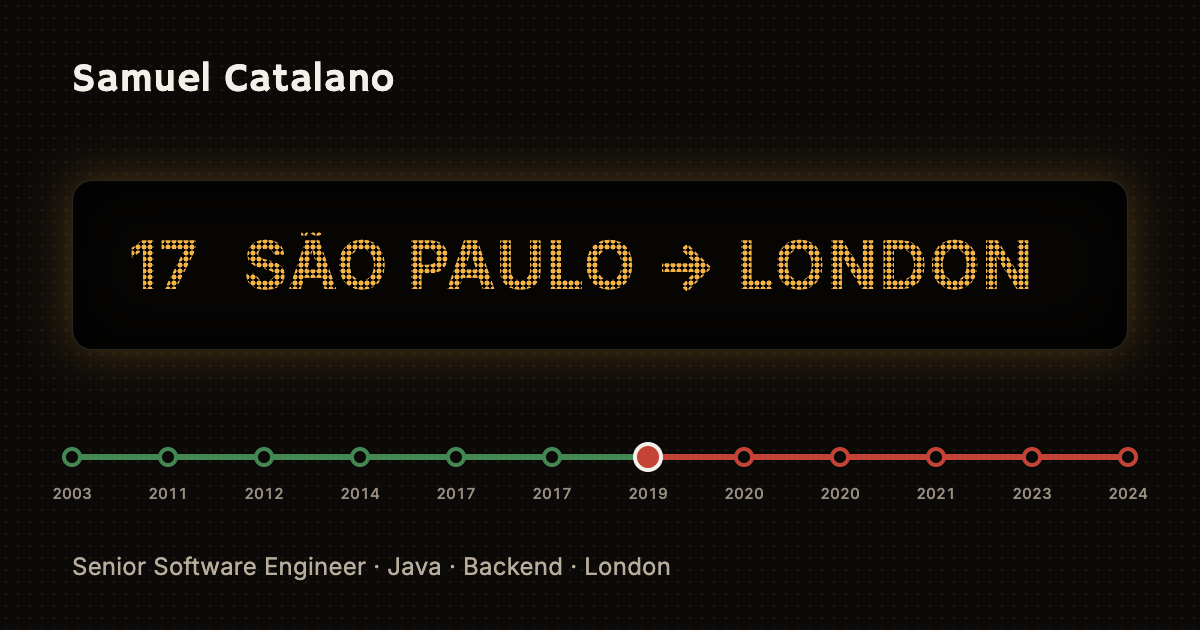
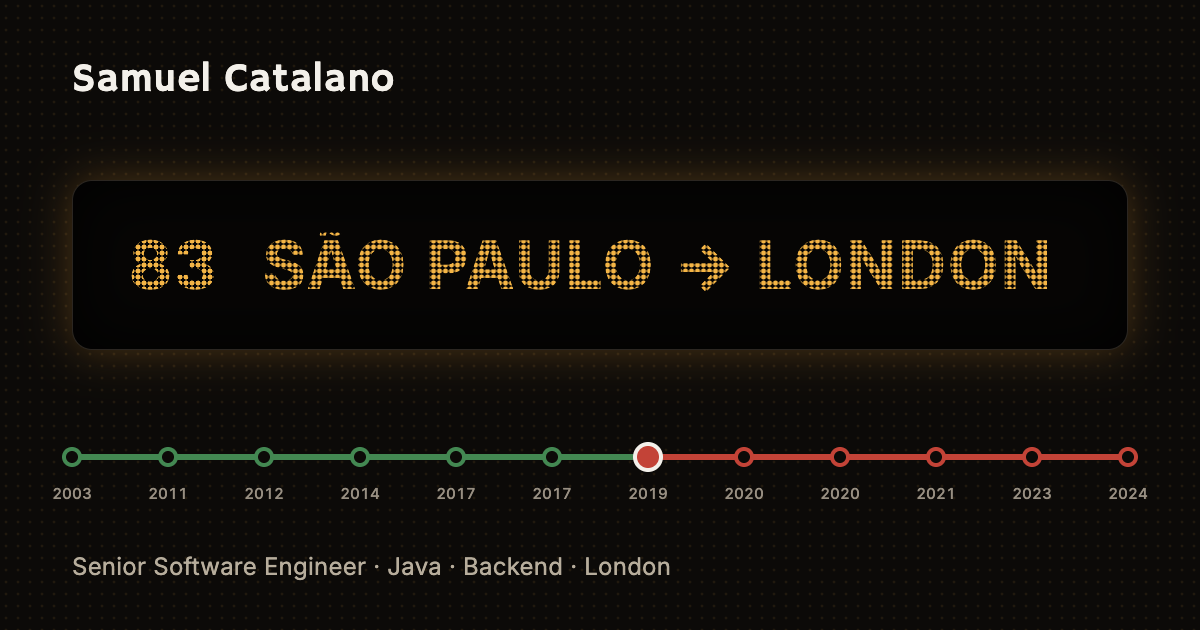
feat(blind): route number is 83 (birth year) on the intro, header and social preview

Changed region(s): [[0.0925, 0.3619, 0.8942, 0.4825]]

diff --git a/index.html b/index.html
@@ -142,7 +142,7 @@
   <section id="intro" role="dialog" aria-labelledby="intro-title" hidden>
     <div class="intro-card">
       <div class="blind" aria-hidden="true">
-        <b class="route">17</b>
+        <b class="route">83</b>
         <div class="dest"><span class="on" data-i18n="intro.d1"></span><span data-i18n="intro.d2"></span><span data-i18n="intro.d3"></span><span class="stop" data-i18n="intro.stop"></span></div>
       </div>
       <div class="intro-body">
@@ -170,7 +170,7 @@
   </section>
   <canvas id="world" aria-hidden="true"></canvas>
   <header class="bar">
-    <a class="brand" href="#hero" data-nav-home>Samuel Catalano<span class="led" aria-hidden="true"><b>17</b><span class="live"></span></span></a>
+    <a class="brand" href="#hero" data-nav-home>Samuel Catalano<span class="led" aria-hidden="true"><b>83</b><span class="live"></span></span></a>
     <nav>
       <a href="#journey" data-nav="journey">Journey</a>
       <a href="#stack" data-nav="stack">Stack</a>

diff --git a/social-preview.html b/social-preview.html
@@ -24,7 +24,7 @@
 </head>
 <body>
   <div class="name">Samuel Catalano</div>
-  <div class="blind"><div class="led">17</div><div class="led">São Paulo → London</div></div>
+  <div class="blind"><div class="led">83</div><div class="led">São Paulo → London</div></div>
   <div class="route" id="route"><div class="line"></div></div>
   <div class="role">Senior Software Engineer · Java · Backend · London</div>
   <script>
